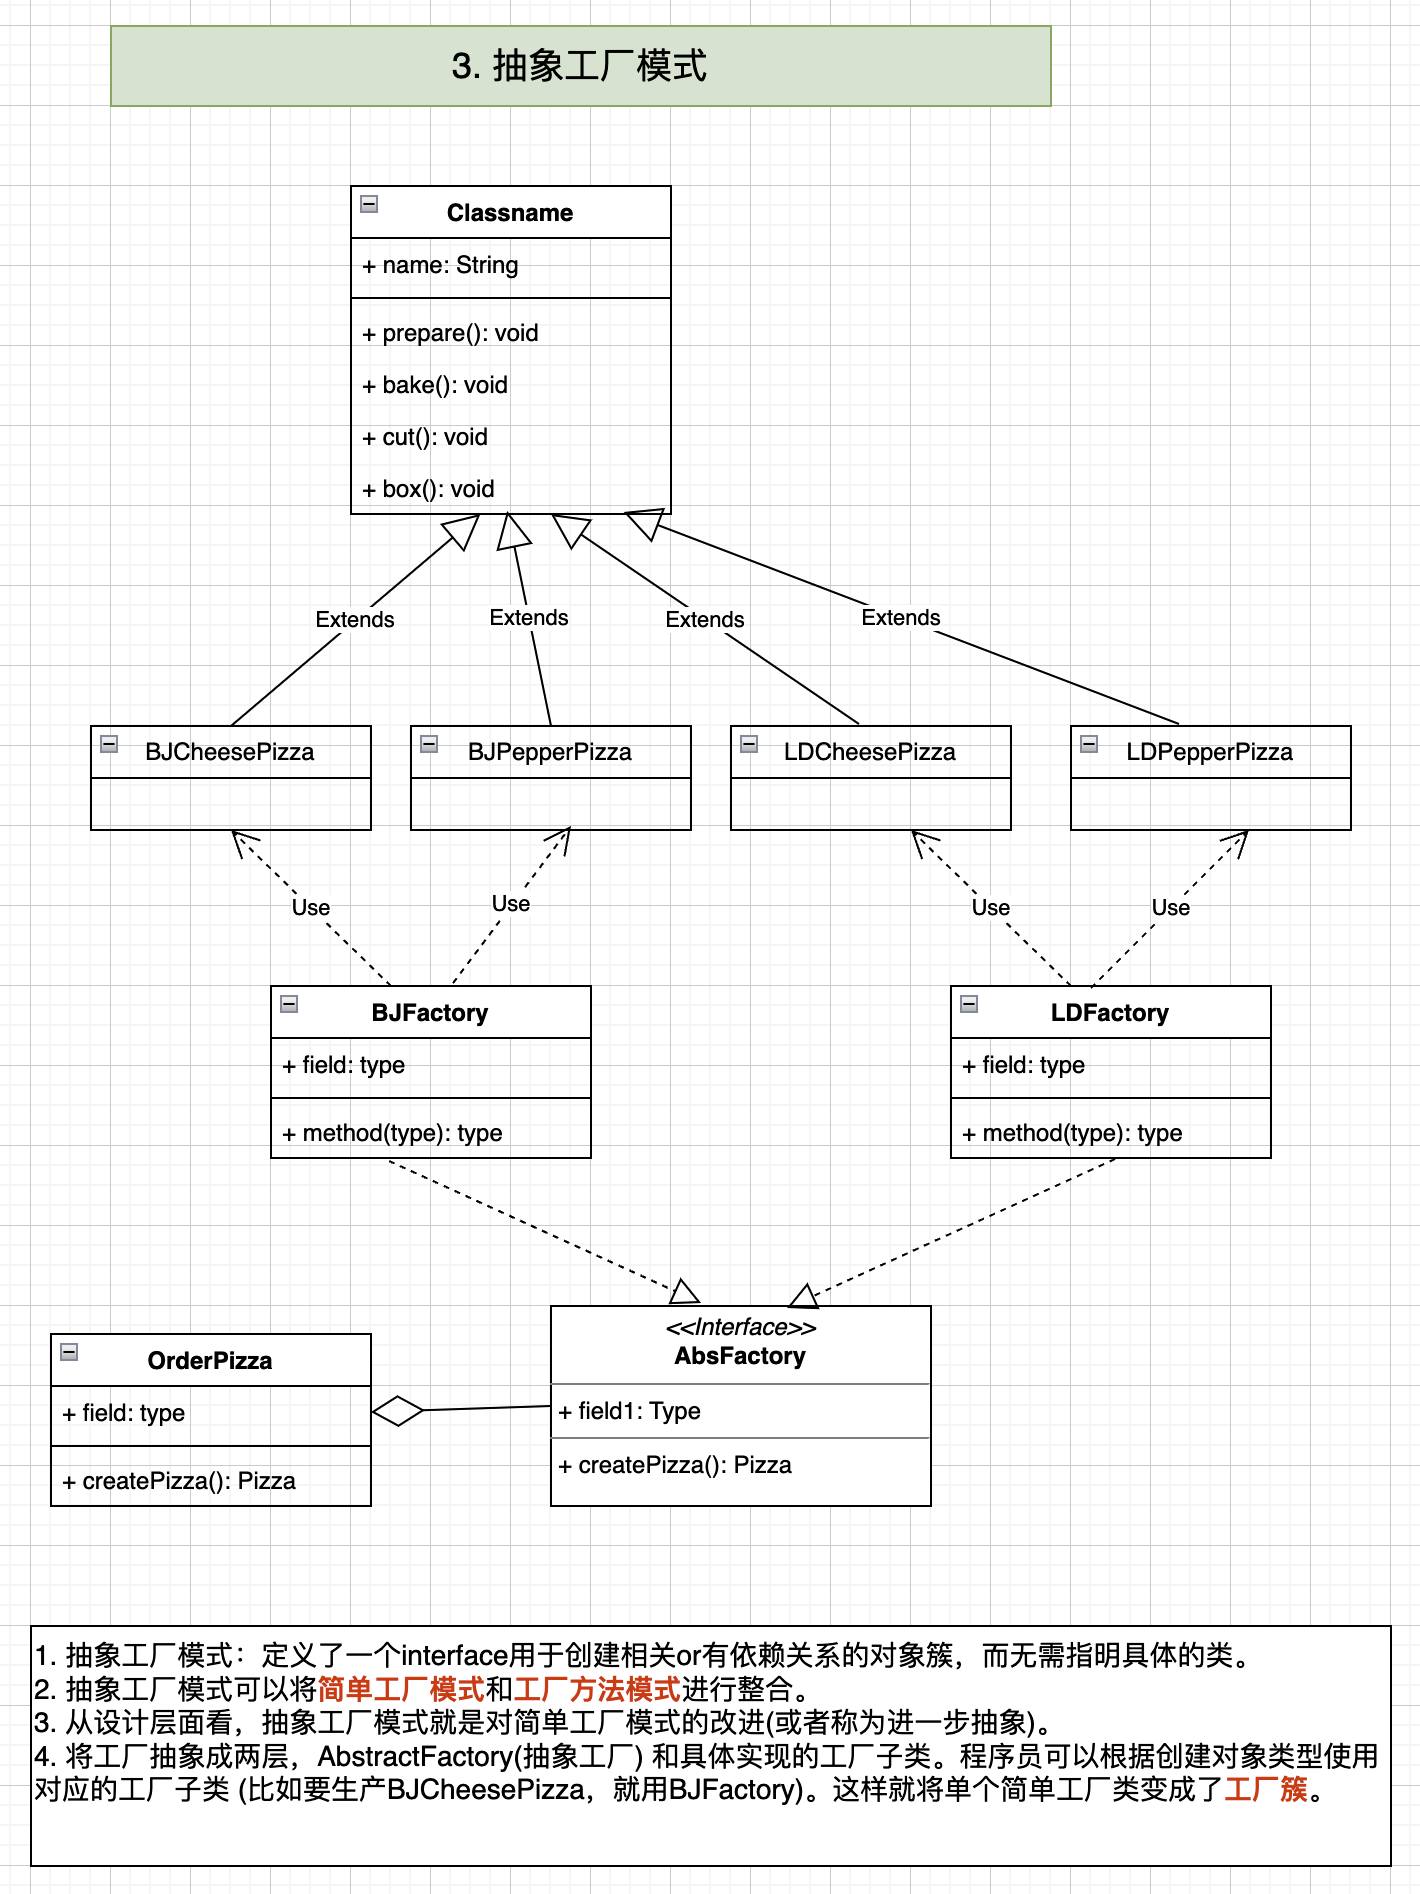
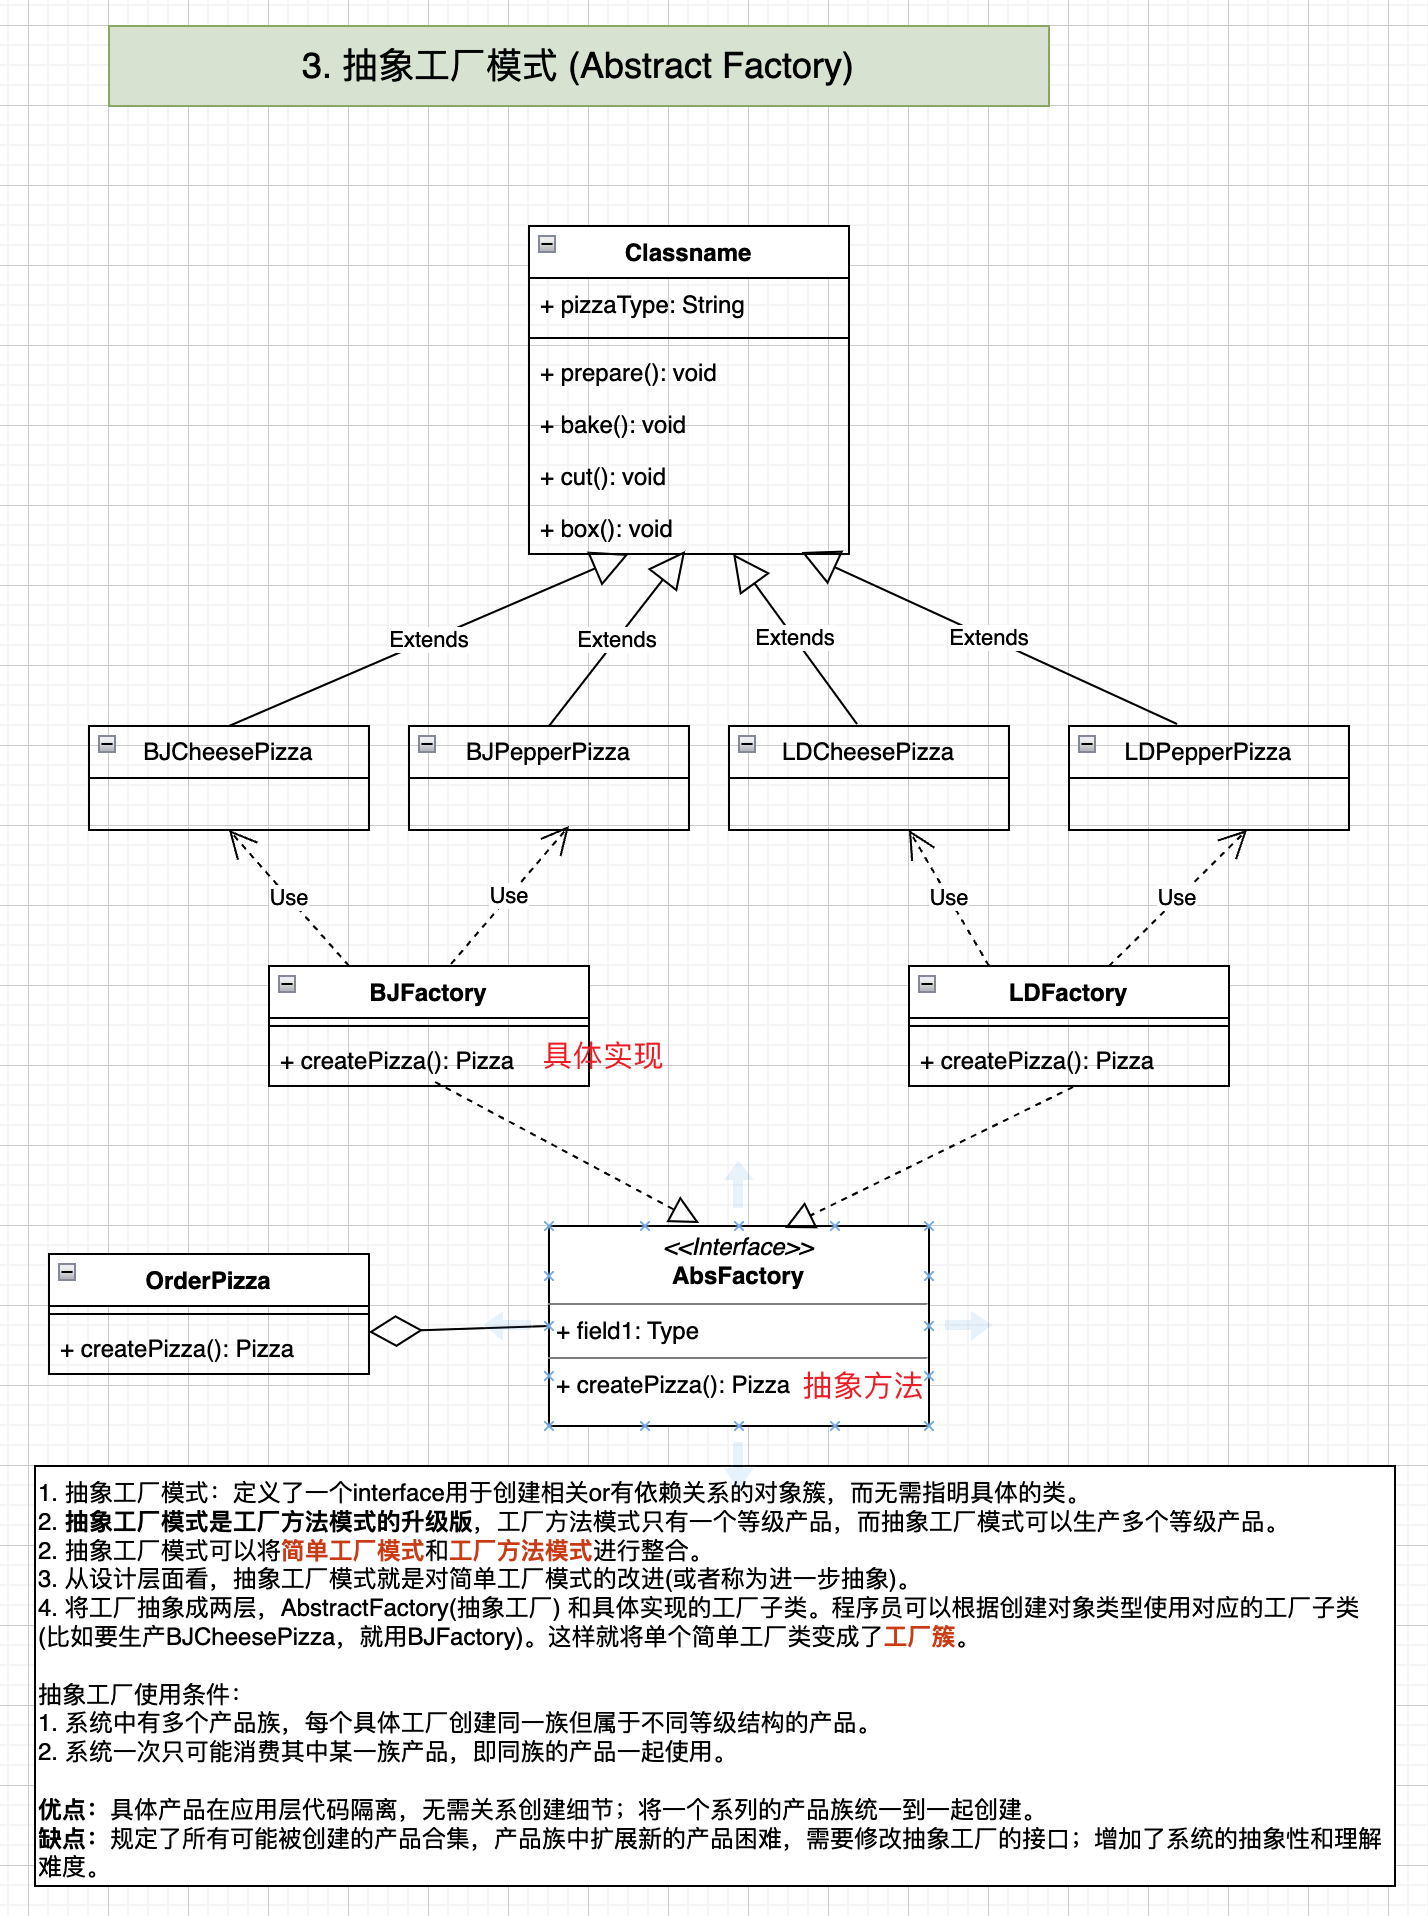
Factory Method总结更新
1. Update 3 UML diagram
2. Add more references

diff --git a/docs/02.SimpleFactory.简单工厂模式.md b/docs/02.SimpleFactory.简单工厂模式.md
@@ -50,3 +50,14 @@
    1. 创建对象实例时，不要直接new对象，而是把这个new对象的动作放到一个工厂方法中，并返回。有的书上说，变量不要直接持有具体类的引用。
    2. 不要让类继承具体类，而是继承抽象类或者实现接口(interface)
    3. 不要覆盖基类中已经实现的方法。
+
+
+## Reference
+* [设计模式之工厂模式(3种)详解及代码示例](https://www.cnblogs.com/jing99/p/12595494.html)
+* [工厂模式详解【简单工厂模式、工厂方法模式、抽象工厂模式】](https://segmentfault.com/a/1190000039768635)
+* [Java设计模式之创建型：工厂模式详解（简单工厂+工厂方法+抽象工厂）](https://blog.csdn.net/a745233700/article/details/120253639)
+* [设计模式之工厂模式详解](https://juejin.cn/post/7033240900373315614)
+* [3种工厂模式](https://github.com/wangruofeng/Github_Blog/blob/master/%E5%B7%A5%E5%8E%82%E6%A8%A1%E5%BC%8F%E8%AF%A6%E8%A7%A3.md)
+* [设计模式详解之工厂模式](https://xie.infoq.cn/article/4b8e7ce446d58c79337a476c3)
+* [三种工厂模式对比](https://xiaoxiami.gitbook.io/php/chapter1/gong-chang-mo-shi/san-zhong-gong-chang-mo-shi-dui-bi)
+* [设计模式之工厂模式详解和应用](https://developer.aliyun.com/article/1333714)
